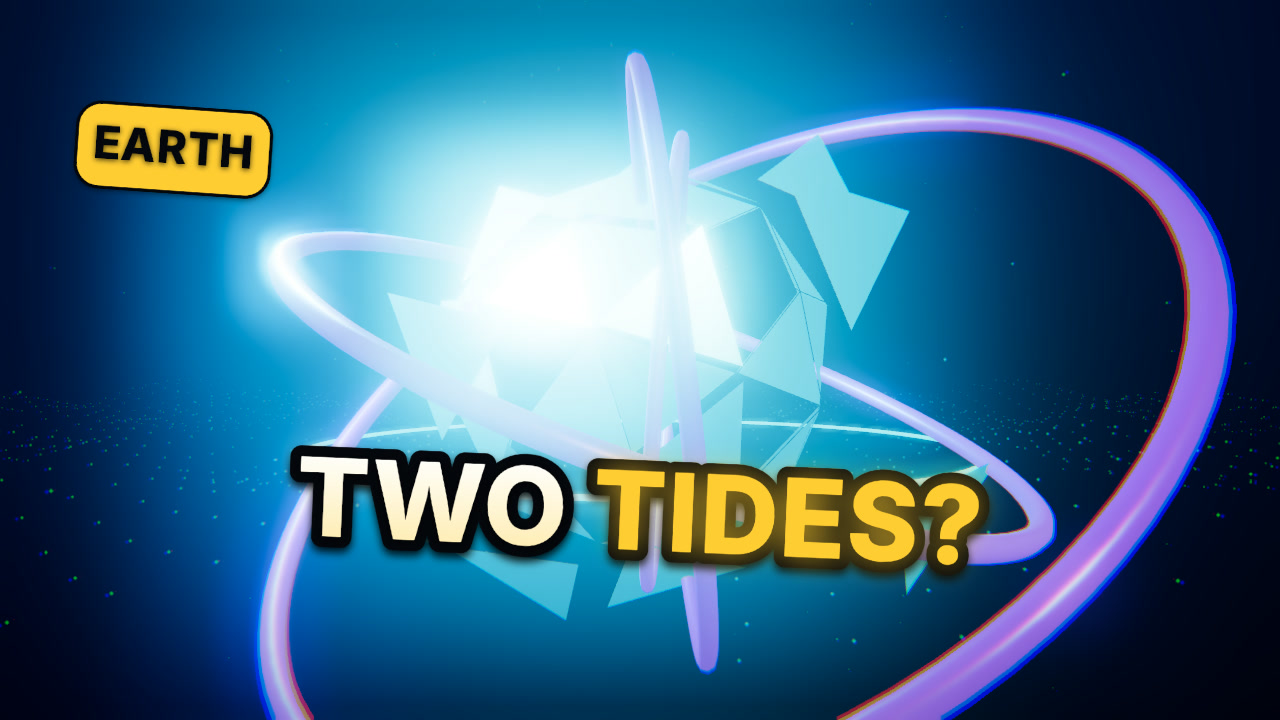
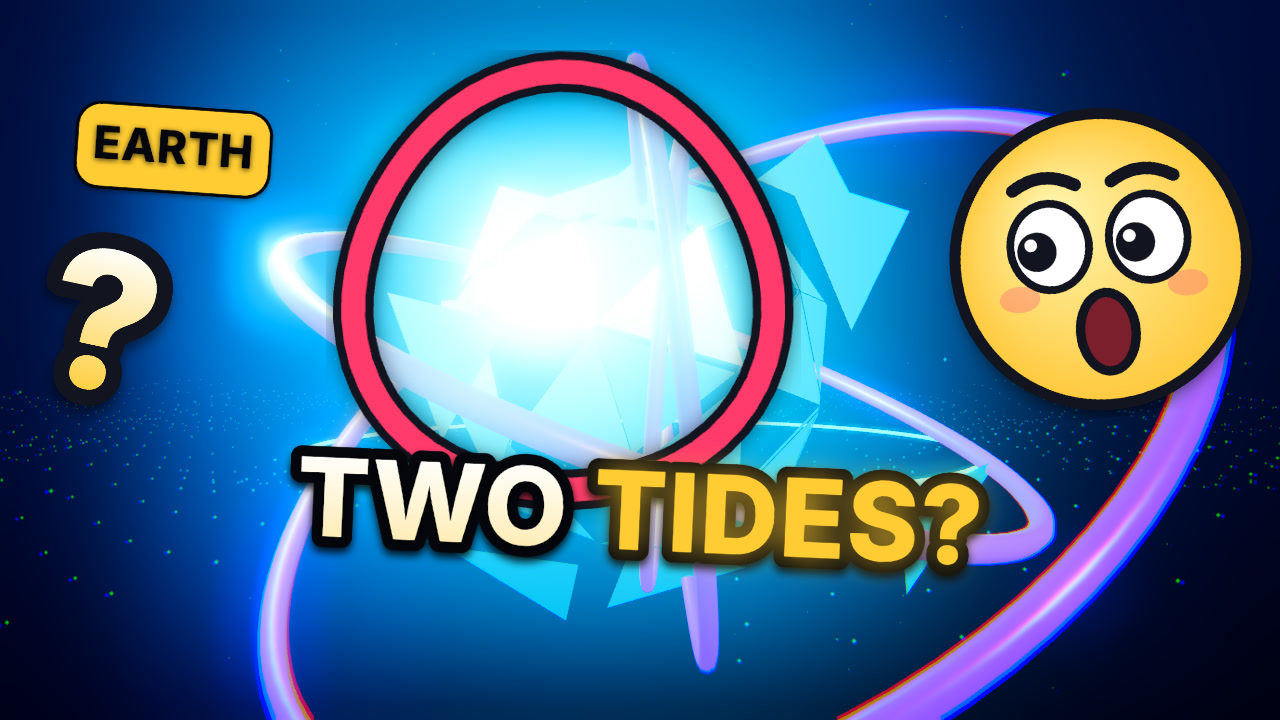
Click-catching, friendly thumbnails: reaction face, ring, ? badge, brighter colours; queued thumbnails regenerated
Claude-Session: https://claude.ai/code/session_01MzaKNvK1JmVG7vwAQxGUo6

diff --git a/shorts/director/engine/stickers.js b/shorts/director/engine/stickers.js
@@ -1,0 +1,84 @@
+// Thumbnail stickers: friendly reaction faces, arrows, hand-drawn rings, "?" badges and star bursts, drawn once on a canvas and placed
+// on the overlay (full resolution, after tone mapping). Positions are fractions of the view: nx, ny in [-1, 1] from the centre, size is a
+// fraction of the view's shorter side. Pure functions of the spec: no randomness, no time.
+import * as THREE from 'three';
+
+const INK = '#12141f';
+function rr(c, x, y, w, h, r) { c.beginPath(); c.moveTo(x + r, y); c.arcTo(x + w, y, x + w, y + h, r); c.arcTo(x + w, y + h, x, y + h, r); c.arcTo(x, y + h, x, y, r); c.arcTo(x, y, x + w, y, r); c.closePath(); }
+
+function drawFace(c, S, mood, look) {
+  const r = S * 0.46, cx = S / 2, cy = S / 2;
+  c.save(); c.shadowColor = 'rgba(0,0,0,0.55)'; c.shadowBlur = S * 0.05; c.shadowOffsetY = S * 0.03;
+  const g = c.createRadialGradient(cx - r * 0.3, cy - r * 0.35, r * 0.1, cx, cy, r); g.addColorStop(0, '#FFF2A6'); g.addColorStop(1, '#FFC93C');
+  c.fillStyle = g; c.beginPath(); c.arc(cx, cy, r, 0, 6.2832); c.fill(); c.restore();
+  c.lineWidth = S * 0.035; c.strokeStyle = INK; c.beginPath(); c.arc(cx, cy, r, 0, 6.2832); c.stroke();
+  // cheeks
+  c.fillStyle = 'rgba(255,120,120,0.45)'; [-1, 1].forEach(s => { c.beginPath(); c.ellipse(cx + s * r * 0.58, cy + r * 0.22, r * 0.14, r * 0.09, 0, 0, 6.2832); c.fill(); });
+  // eyes: big white, pupils look toward `look` (-1 left .. 1 right)
+  const ey = cy - r * 0.12, ex = r * 0.34, er = mood === 'surprised' ? r * 0.27 : r * 0.23;
+  [-1, 1].forEach(s => {
+    c.fillStyle = '#fff'; c.lineWidth = S * 0.025; c.strokeStyle = INK; c.beginPath(); c.ellipse(cx + s * ex, ey, er, er * 1.1, 0, 0, 6.2832); c.fill(); c.stroke();
+    c.fillStyle = INK; c.beginPath(); c.arc(cx + s * ex + look * er * 0.42, ey + er * 0.1, er * 0.5, 0, 6.2832); c.fill();
+    c.fillStyle = '#fff'; c.beginPath(); c.arc(cx + s * ex + look * er * 0.42 - er * 0.14, ey - er * 0.08, er * 0.16, 0, 6.2832); c.fill();
+  });
+  // brows
+  c.lineWidth = S * 0.04; c.lineCap = 'round'; c.strokeStyle = INK;
+  [-1, 1].forEach(s => { c.beginPath(); const by = ey - er * (mood === 'surprised' ? 1.65 : 1.45); c.moveTo(cx + s * ex - er * 0.8, by + (mood === 'curious' ? s * er * 0.25 : er * 0.15)); c.quadraticCurveTo(cx + s * ex, by - er * 0.35, cx + s * ex + er * 0.8, by + (mood === 'curious' ? -s * er * 0.1 : er * 0.15)); c.stroke(); });
+  // mouth
+  c.fillStyle = '#7a1f2b'; c.lineWidth = S * 0.03; c.strokeStyle = INK;
+  if (mood === 'happy') { c.beginPath(); c.moveTo(cx - r * 0.38, cy + r * 0.3); c.quadraticCurveTo(cx, cy + r * 0.78, cx + r * 0.38, cy + r * 0.3); c.closePath(); c.fill(); c.stroke(); c.fillStyle = '#fff'; c.fillRect(cx - r * 0.26, cy + r * 0.3, r * 0.52, r * 0.1); }
+  else if (mood === 'curious') { c.beginPath(); c.arc(cx + r * 0.05, cy + r * 0.52, r * 0.13, 0, 6.2832); c.fill(); c.stroke(); }
+  else { c.beginPath(); c.ellipse(cx, cy + r * 0.5, r * 0.19, r * 0.27, 0, 0, 6.2832); c.fill(); c.stroke(); }   // surprised "O"
+}
+
+function drawArrow(c, W, H, color) {
+  c.lineCap = 'round'; c.lineJoin = 'round';
+  const path = () => { c.beginPath(); c.moveTo(W * 0.08, H * 0.78); c.bezierCurveTo(W * 0.3, H * 0.1, W * 0.62, H * 0.1, W * 0.84, H * 0.52); };
+  const head = () => { c.beginPath(); c.moveTo(W * 0.66, H * 0.56); c.lineTo(W * 0.9, H * 0.58); c.lineTo(W * 0.8, H * 0.28); };
+  c.shadowColor = 'rgba(0,0,0,0.5)'; c.shadowBlur = H * 0.06; c.shadowOffsetY = H * 0.03;
+  c.strokeStyle = INK; c.lineWidth = H * 0.24; path(); c.stroke(); head(); c.stroke();
+  c.shadowColor = 'transparent'; c.strokeStyle = color; c.lineWidth = H * 0.13; path(); c.stroke(); head(); c.stroke();
+}
+
+function drawRing(c, W, H, color) {   // a hand-drawn loop around the subject
+  c.lineCap = 'round'; c.lineJoin = 'round';
+  const loop = () => { c.beginPath(); for (let i = 0; i <= 64; i++) { const a = i / 64 * 6.2832 * 1.08 - 0.5, w = 1 + 0.035 * Math.sin(a * 3), x = W / 2 + Math.cos(a) * W * 0.44 * w, y = H / 2 + Math.sin(a) * H * 0.44 * w; i ? c.lineTo(x, y) : c.moveTo(x, y); } };
+  c.shadowColor = 'rgba(0,0,0,0.5)'; c.shadowBlur = H * 0.04; c.strokeStyle = INK; c.lineWidth = H * 0.085; loop(); c.stroke();
+  c.shadowColor = 'transparent'; c.strokeStyle = color; c.lineWidth = H * 0.05; loop(); c.stroke();
+}
+
+function drawQ(c, S, color, text) {
+  c.textAlign = 'center'; c.textBaseline = 'middle'; c.font = `900 ${S * 0.95}px "Inter", sans-serif`;
+  c.lineJoin = 'round'; c.lineWidth = S * 0.16; c.strokeStyle = INK; c.shadowColor = 'rgba(0,0,0,0.5)'; c.shadowBlur = S * 0.06; c.shadowOffsetY = S * 0.04;
+  c.strokeText(text, S / 2, S * 0.54); c.shadowColor = 'transparent'; const g = c.createLinearGradient(0, S * 0.1, 0, S * 0.9); g.addColorStop(0, '#FFFFFF'); g.addColorStop(1, color);
+  c.fillStyle = g; c.fillText(text, S / 2, S * 0.54);
+}
+
+function drawBurst(c, S, color, text) {   // a star-shaped badge with a short word
+  const n = 14, cx = S / 2, cy = S / 2;
+  c.save(); c.shadowColor = 'rgba(0,0,0,0.5)'; c.shadowBlur = S * 0.05; c.shadowOffsetY = S * 0.03; c.beginPath();
+  for (let i = 0; i < n * 2; i++) { const a = i / (n * 2) * 6.2832, r = (i % 2 ? 0.37 : 0.49) * S; i ? c.lineTo(cx + Math.cos(a) * r, cy + Math.sin(a) * r) : c.moveTo(cx + Math.cos(a) * r, cy + Math.sin(a) * r); }
+  c.closePath(); c.fillStyle = color; c.fill(); c.restore(); c.lineJoin = 'round'; c.lineWidth = S * 0.03; c.strokeStyle = INK; c.stroke();
+  c.fillStyle = INK; c.textAlign = 'center'; c.textBaseline = 'middle'; c.font = `900 ${S * 0.2}px "Inter","Noto Sans Devanagari",sans-serif`; c.fillText(text, cx, cy);
+}
+
+export class Sticker {
+  constructor(spec, ctx) {
+    const view = ctx.view, shortSide = Math.min(view.w, view.h), size = spec.size * shortSide;
+    const aspect = spec.type === 'arrow' ? 1.6 : 1;
+    this.canvas = document.createElement('canvas'); const S = 512; this.canvas.width = S * aspect | 0; this.canvas.height = S; const c = this.canvas.getContext('2d');
+    const color = spec.color || '#FFCC33';
+    if (spec.type === 'face') drawFace(c, S, spec.mood || 'surprised', spec.look ?? 0.8);
+    else if (spec.type === 'arrow') drawArrow(c, this.canvas.width, S, color);
+    else if (spec.type === 'ring') drawRing(c, this.canvas.width, S, color);
+    else if (spec.type === 'qmark') drawQ(c, S, color, spec.text || '?');
+    else if (spec.type === 'burst') drawBurst(c, S, color, spec.text || 'NEW');
+    const tex = new THREE.CanvasTexture(this.canvas); tex.colorSpace = THREE.SRGBColorSpace; tex.minFilter = THREE.LinearFilter; tex.generateMipmaps = false;
+    this.mesh = new THREE.Mesh(new THREE.PlaneGeometry(size * aspect, size), new THREE.MeshBasicMaterial({ map: tex, transparent: true, depthTest: false, depthWrite: false, toneMapped: false }));
+    this.mesh.renderOrder = spec.type === 'ring' ? 15 : 30;   // a ring sits behind the headline, faces and badges in front
+    this.mesh.position.set(spec.nx * view.w / 2, spec.ny * view.h / 2, -ctx.dist);
+    this.mesh.rotation.z = THREE.MathUtils.degToRad(spec.tilt || 0);
+    if (spec.flip) this.mesh.scale.x = -1;
+  }
+  dispose() { this.mesh.material.map.dispose(); this.mesh.material.dispose(); this.mesh.geometry.dispose(); }
+}

diff --git a/shorts/director/engine/sceneTypes.js b/shorts/director/engine/sceneTypes.js
@@ -4,6 +4,7 @@ import { mulberry32, clamp, lerp, smooth, easeOutCubic, wrap, fract } from './ut
 import { buildEnvironment, bgColor, softSprite } from './environment.js';
 import { ObjectSystem } from './objects.js';
 import { TextElement } from './text.js';
+import { Sticker } from './stickers.js';
 
 export const SCENE_TYPES = ['kinetic-typography', 'particle-world', 'geometry-swarm', 'data-tunnel', 'procedural-grid', 'object-assembly', 'diagram-3d', 'image-parallax', 'timeline-3d', 'wave-field', 'network-nodes', 'finale'];
 const LIGHT_GAIN = 38;
@@ -183,6 +184,9 @@ export class SceneContent {
       this.overlay.add(el.mesh); if (el.pointsObj) { el.pointsObj.position.set(el.mesh.position.x, el.mesh.position.y, el.baseZ); this.overlay.add(el.pointsObj); }
       return el;
     });
+    // thumbnail stickers (faces, arrows, rings, badges) on the same overlay
+    const vh = 2 * ctx.textDist * tanH, view = { w: vh * aspect, h: vh };
+    this.stickers = (spec.stickers || []).map(st => { const sk = new Sticker(st, { view, dist: ctx.textDist }); this.overlay.add(sk.mesh); return sk; });
     // camera focus
     const target = spec.camera?.target, sysT = this.systems.find(s => s.id === target);
     const F = new THREE.Vector3(0, 0, 0);
@@ -225,6 +229,6 @@ export class SceneContent {
   }
 
   textOverflow() { return this.texts.filter(t => t.overflow).map(t => t.spec.id); }
-  dispose() { this.texts.forEach(t => t.dispose()); this.systems.forEach(s => s.dispose()); this.scene.traverse(o => { if (o.geometry) o.geometry.dispose(); }); }
+  dispose() { this.texts.forEach(t => t.dispose()); (this.stickers || []).forEach(t => t.dispose()); this.systems.forEach(s => s.dispose()); this.scene.traverse(o => { if (o.geometry) o.geometry.dispose(); }); }
 }
 import { cameraPose, ALT_CAMERA } from './camera.js';

diff --git a/shorts/director/engine/post.js b/shorts/director/engine/post.js
@@ -71,10 +71,10 @@ export const MixShader = {
 };
 
 export const FxShader = {
-  uniforms: { tDiffuse: { value: null }, time: { value: 0 }, grain: { value: 0.08 }, vig: { value: 0.2 }, ca: { value: 0.015 }, glitch: { value: 0 }, seed: { value: 0 } },
+  uniforms: { tDiffuse: { value: null }, time: { value: 0 }, grain: { value: 0.08 }, vig: { value: 0.2 }, ca: { value: 0.015 }, glitch: { value: 0 }, seed: { value: 0 }, sat: { value: 1 }, gain: { value: 1 } },
   vertexShader: VERT,
   fragmentShader: `
-    varying vec2 vUv; uniform sampler2D tDiffuse; uniform float time, grain, vig, ca, glitch, seed;
+    varying vec2 vUv; uniform sampler2D tDiffuse; uniform float time, grain, vig, ca, glitch, seed, sat, gain;
     float hash(vec2 s){ return fract(sin(dot(s, vec2(12.9898,78.233)) + seed)*43758.5453); }
     void main(){
       vec2 uv = vUv;
@@ -84,6 +84,7 @@ export const FxShader = {
       vec3 col = vec3(r,g,b);
       float v = 1. - vig*smoothstep(0.35, 0.95, length(d)*1.25); col *= v;
       col += (hash(uv*vec2(1920.,1080.) + floor(time*24.)) - .5)*grain*0.35;
+      float l = dot(col, vec3(0.299, 0.587, 0.114)); col = mix(vec3(l), col, sat) * gain;
       gl_FragColor = vec4(col, 1.);
     }`,
 };

diff --git a/shorts/director/engine/main.js b/shorts/director/engine/main.js
@@ -48,6 +48,7 @@ window.setup = async cfg => {
   S.comp = comp;
   const fx = S.fx.uniforms, on = k => pp.enabled !== false && (pp[k]?.enabled !== false);
   fx.grain.value = on('filmGrain') ? pp.filmGrain?.strength ?? 0.08 : 0; fx.vig.value = on('vignette') ? pp.vignette?.strength ?? 0.2 : 0; fx.ca.value = on('chromaticAberration') ? pp.chromaticAberration?.strength ?? 0.015 : 0;
+  const look = pp.look || {}; fx.sat.value = look.saturation ?? 1; fx.gain.value = look.gain ?? 1;   // thumbnails: more saturated, brighter
   S.glitchMax = on('glitch') ? pp.glitch?.maximumStrength ?? 0.08 : 0;
   S.mix.uniforms.seed.value = (cfg.manifest.randomization?.globalSeed || 1) % 997;
   // shared scene context

diff --git a/shorts/director/thumbnail.py b/shorts/director/thumbnail.py
@@ -93,6 +93,7 @@ def spec_from_manifest(m: dict, lang: str) -> dict:
             "environment": t.get("environment") or first["environment"]["preset"], "objects": t.get("objects") or (first.get("objects") if hero == first["sceneType"] else None),
             "accentWords": _accent_words(headline, (loc.get("thumbnailAccent") or t.get("accentWords")), lang),
             "palette": m["brandSystem"]["defaultPalette"], "seed": m["randomization"]["globalSeed"], "concept": t.get("concept", ""),
+            "title": M.localize(m, lang).get("publishingMetadata", {}).get("title", ""),
             "tag": pick_tag(M.localize(m, lang).get("publishingMetadata", {}).get("title", ""), m["creativeBrief"].get("niche", ""), loc.get("thumbnailTag", t.get("tag")) if lang != "en" or "tag" in t else None, lang)}
 
 
@@ -106,7 +107,31 @@ def spec_from_script(script, niche: str, lang: str) -> dict:
     return {"headline": headline, "lang": lang, "sceneType": scene_type, "environment": env, "objects": None,
             "accentWords": _accent_words(headline, None, lang), "palette": M.DEFAULTS["brandSystem"]["defaultPalette"],
             "seed": sum(map(ord, script.title)) % 100000, "concept": "",
-            "tag": pick_tag(script.title, niche, getattr(script, "thumbnail_tag", None), lang)}
+            "title": script.title, "tag": pick_tag(script.title, niche, getattr(script, "thumbnail_tag", None), lang)}
+
+
+def stickers_for(spec: dict, land: bool) -> list[dict]:
+    """Click-catching, friendly extras: a reaction face looking at the subject, a ring around the subject, a "?" badge. Faces and
+    curiosity cues are what make people tap; `spec["stickers"] = False` turns them off, a list replaces them."""
+    given = spec.get("stickers")
+    if given is False:
+        return []
+    if isinstance(given, list):
+        return given
+    q = "?" in spec["headline"] or WHAT_IF.search(spec.get("title", "") or "") is not None or spec.get("tag") in ("WHAT IF?", "अगर?")
+    mood = spec.get("mood") or ("surprised" if q else "happy")
+    accent = spec["palette"].get("accent", "#FFCC33")
+    if land:
+        out = [{"type": "ring", "nx": -0.12, "ny": 0.2, "size": 0.66, "color": "#FF3B6B"},
+               {"type": "face", "mood": mood, "nx": 0.72, "ny": 0.28, "size": 0.44, "look": -0.8, "tilt": 6}]
+        if q:
+            out.append({"type": "qmark", "nx": -0.84, "ny": 0.1, "size": 0.28, "color": accent, "tilt": -12})
+    else:
+        out = [{"type": "ring", "nx": 0.0, "ny": 0.16, "size": 0.62, "color": "#FF3B6B"},
+               {"type": "face", "mood": mood, "nx": 0.52, "ny": 0.6, "size": 0.4, "look": -0.8, "tilt": 6}]
+        if q:
+            out.append({"type": "qmark", "nx": -0.5, "ny": 0.45, "size": 0.26, "color": accent, "tilt": -10})
+    return out
 
 
 def _engine_cfg(spec: dict, w: int, h: int, still_path: Path) -> dict:
@@ -123,11 +148,13 @@ def _engine_cfg(spec: dict, w: int, h: int, still_path: Path) -> dict:
                                       "style": {"scale": 0.42, "color": "#05070D", "chip": spec["palette"].get("accent", "#FFCC33"), "tilt": -4, "outline": False}})
     if spec.get("objects"):
         scene["objects"] = spec["objects"]
+    scene["stickers"] = stickers_for(spec, land)
     m = {"creativeBrief": {"format": "documentary" if land else "short", "targetDurationSeconds": 4,
                            "resolution": {"width": w, "height": h}, "framesPerSecond": 30},
          "randomization": {"globalSeed": spec["seed"]}, "scenes": [scene],
          "renderSettings": {"safeArea": {"topPercent": 4, "bottomPercent": 4, "leftPercent": 4, "rightPercent": 4},
-                            "postProcessing": {"glitch": {"enabled": False}, "filmGrain": {"strength": 0.0}, "bloom": {"strength": 0.5}}},
+                            "postProcessing": {"glitch": {"enabled": False}, "filmGrain": {"strength": 0.0}, "bloom": {"strength": 0.42},
+                                            "look": {"saturation": 1.4, "gain": 1.05}}},   # brighter and more saturated than the video
          "brandSystem": {"defaultPalette": spec["palette"], "typography": {"preferredHeadlineFontSizePixels": 96}}}
     m = M.complete(m)
     sc = m["scenes"][0]
